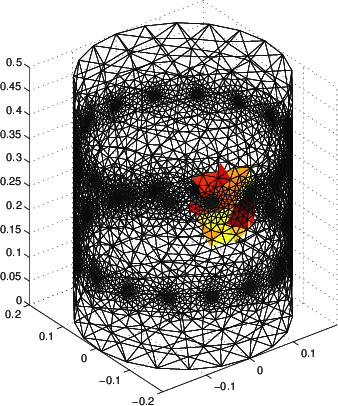
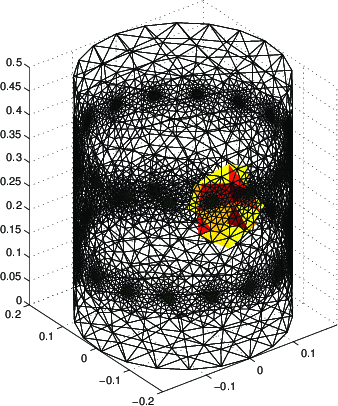
changes to use new functions
git-svn-id: svn://svn.code.sf.net/p/eidors3d/code/trunk@2693 82006732-fb7e-4a22-9f28-86a212cce563

Changed region(s): [[0.2071, 0.0591, 0.8876, 0.9163]]

diff --git a/htdocs/tutorial/dual_model/dual_3d3d.m b/htdocs/tutorial/dual_model/dual_3d3d.m
@@ -9,20 +9,8 @@ electrodes_per_plane = 16;
 number_of_planes = 2;
 tank_radius = 0.2;
 tank_height = 0.5;
-
-[fine_mdl,centres] = create_tank_mesh_ng( ...
-   tank_radius, ...   
-   tank_height, ...  
-   'C', ... % Rect_or_Circ_electrode
-   log2(electrodes_per_plane), ...  
-   number_of_planes, ...  
-   0.15, ... % first_plane_starts
-   0.2, ... % height_between_centres
-   0.01, ... % electrode_width
-   0.05, ... % electrode_height, ...
-   'tank', ... % fname, 
-   0 ... % elec_mesh_density  
-   );
+fine_mdl = ng_mk_cyl_models([tank_height,tank_radius],...
+    [electrodes_per_plane,0.15,0.35],[0.01]);
 
 % Determine stimulation paterns
 stim_pat = mk_stim_patterns(electrodes_per_plane, number_of_planes, ...
@@ -69,8 +57,7 @@ inhomg_data=fwd_solve( fine_mdl, inhomg_img);
 %% Create coarse model for inverse problem
 
 coarse_mdl_maxh = 0.07; % maximum element size 
-coarse_mdl = create_cylinder_mesh_ng('cylinder', tank_radius, ...
-                                     tank_height, coarse_mdl_maxh) ;
+coarse_mdl = ng_mk_cyl_models([tank_height,tank_radius,coarse_mdl_maxh],[0],[]);
 
 
 %% Create inverse model
